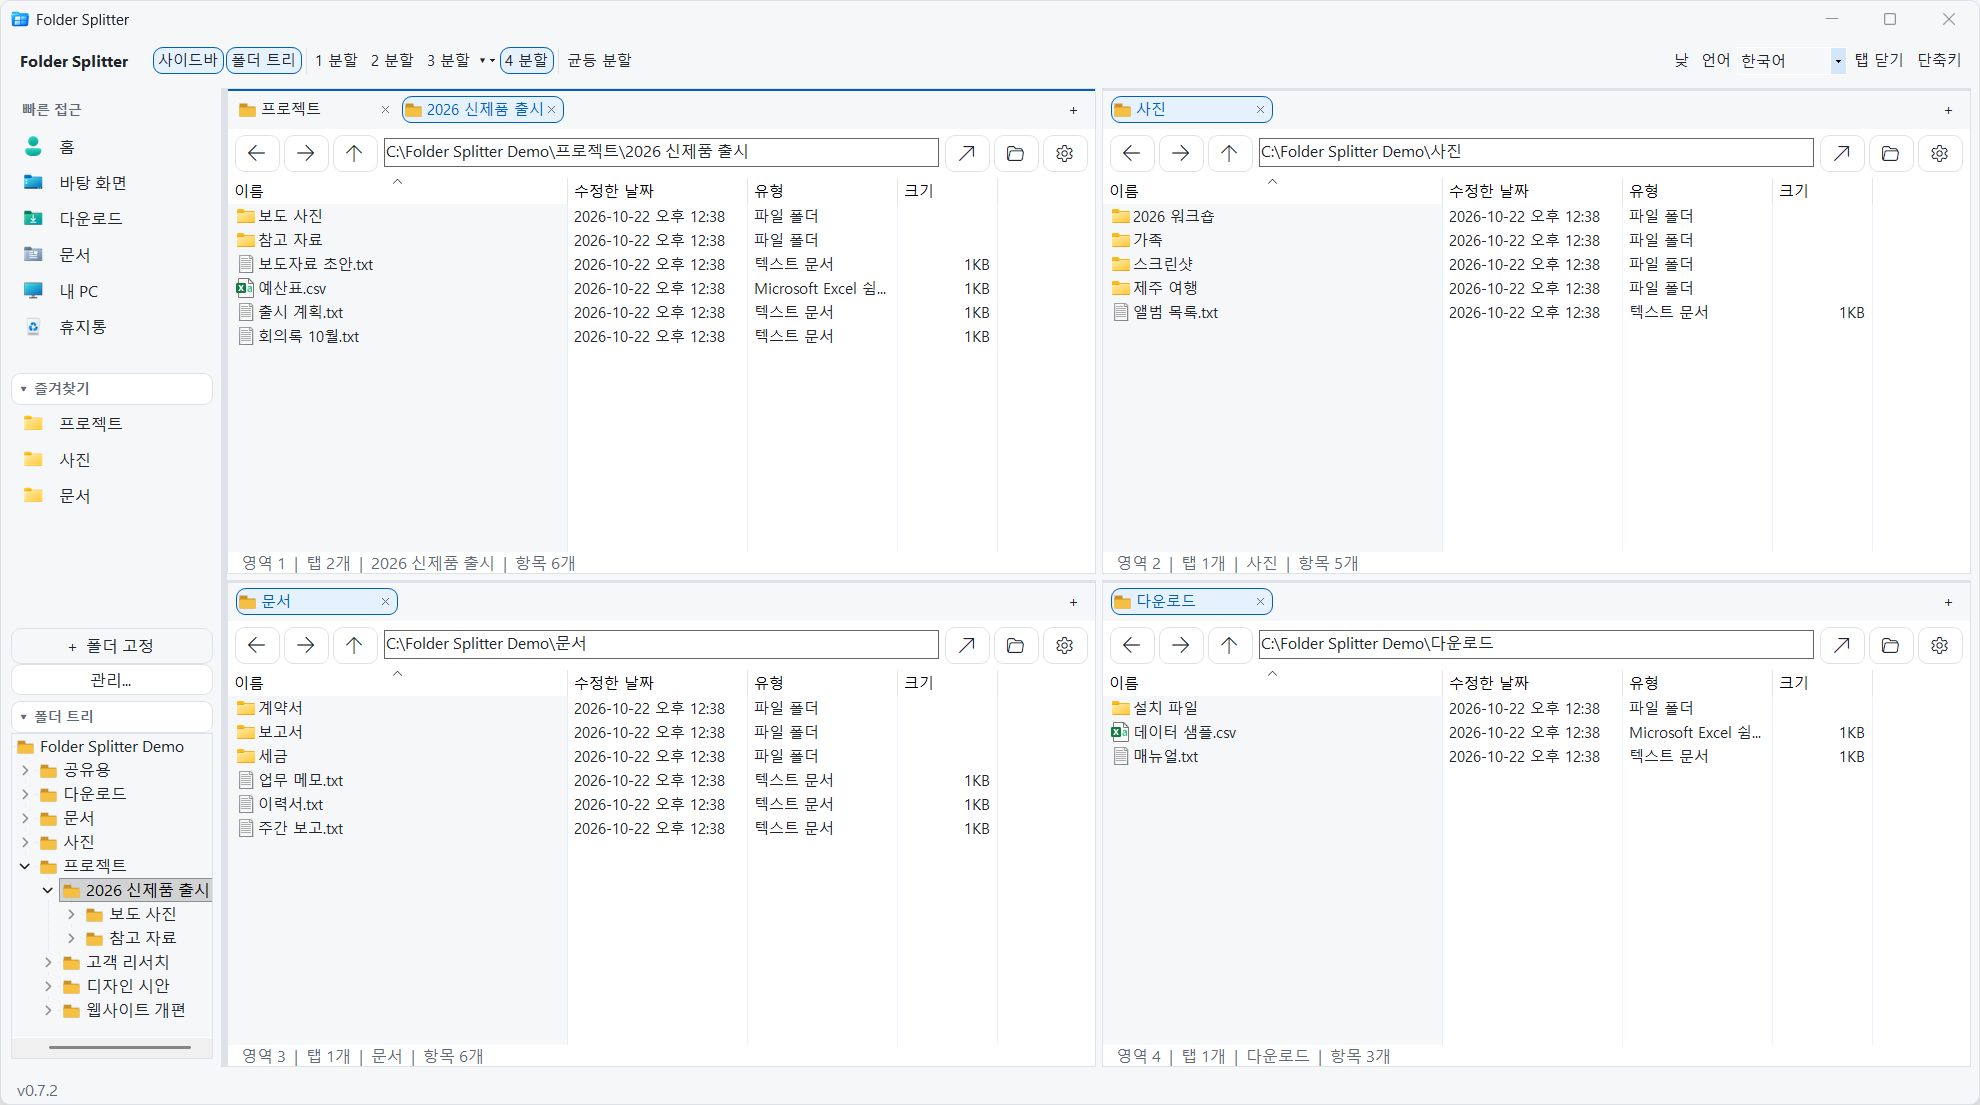
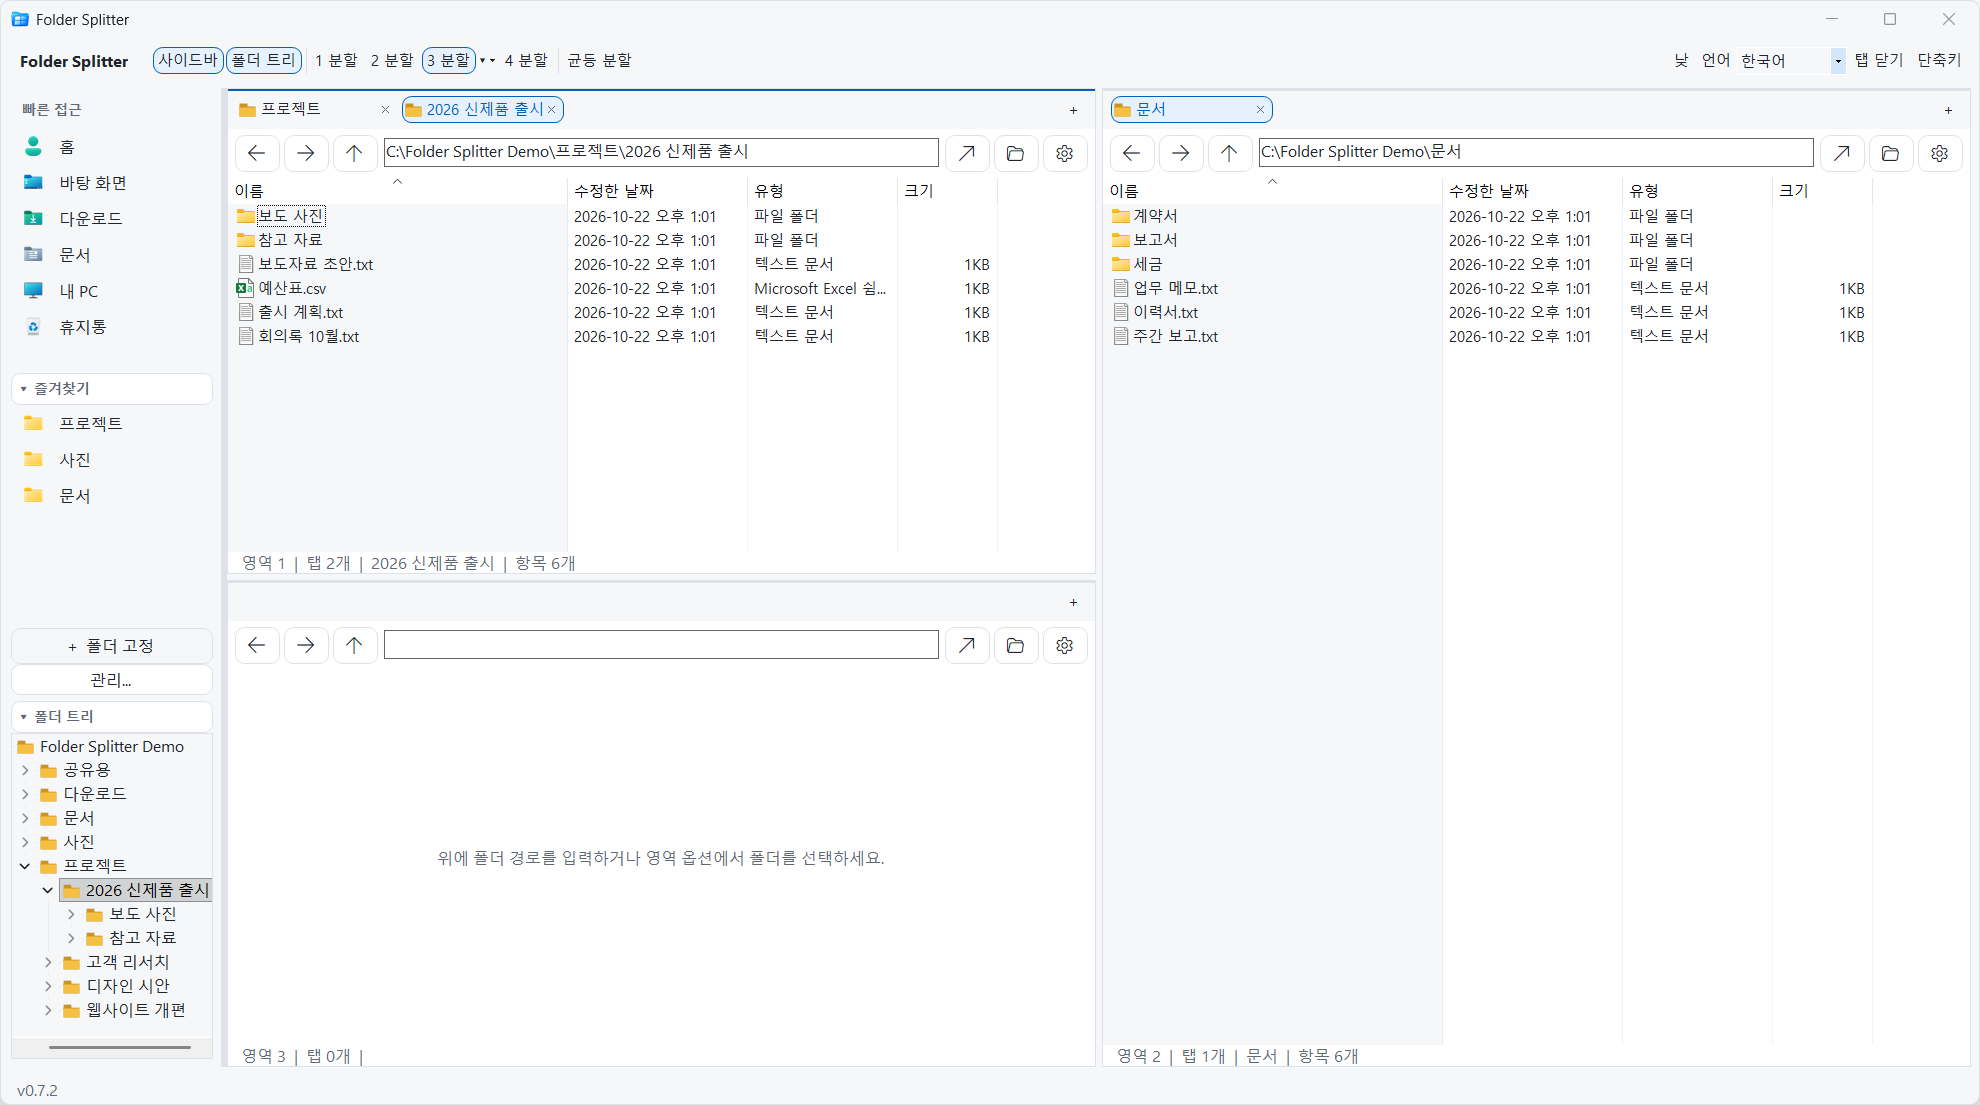
Show a three-pane layout with one empty pane in the README screenshot

diff --git a/tests/QuadExplorer.UiTests/Program.cs b/tests/QuadExplorer.UiTests/Program.cs
@@ -229,24 +229,26 @@ internal static class Program
             string session = Path.Combine(output, "demo-session.json");
             SessionStore.Save(session, new SessionState
             {
-                Layout = 4, Language = "ko", ExplorerFavoritesImported = true, WindowWidth = 1600, WindowHeight = 900,
+                Layout = 3, Language = "ko", ExplorerFavoritesImported = true, WindowWidth = 1600, WindowHeight = 900,
                 Favorites = [projects, photos, documents],
-                Panes = [new PaneState { Tabs = [projects, launch], SelectedTab = 1 }, new PaneState { Tabs = [photos] },
-                    new PaneState { Tabs = [documents] }, new PaneState { Tabs = [downloads] }]
+                // Three panes with one left empty, as a new split shows it.
+                Panes = [new PaneState { Tabs = [projects, launch], SelectedTab = 1 }, new PaneState { Tabs = [documents] },
+                    new PaneState(), new PaneState()]
             });
             using var search = new IndependentSearchBackend(new[] { demoRoot }, Path.Combine(output, "demo-index.fsix"));
             using var form = new MainForm(session, [], search, [demoRoot]);
             foreach (var window in CandidatePopups(form).Prepend<Form>(form))
                 SetWindowLongPtr(window.Handle, -20, GetWindowLongPtr(window.Handle, -20) | 0x08000000); // WS_EX_NOACTIVATE: keep the user's focus
             var panes = Enumerable.Range(0, 4).Select(form.GetPane).ToArray();
-            var navigation = panes.Select(p => p.ActiveView!.HasNavigated ? Task.CompletedTask : NavigationSignal(p.ActiveView)).ToArray();
+            var shown = panes.Where(p => p.ActiveView is not null).ToArray();
+            var navigation = shown.Select(p => p.ActiveView!.HasNavigated ? Task.CompletedTask : NavigationSignal(p.ActiveView)).ToArray();
             form.Shown += async (_, _) =>
             {
                 try
                 {
                     await Task.WhenAll(navigation).WaitAsync(TimeSpan.FromSeconds(20));
-                    foreach (var pane in panes) pane.ActiveView!.SetViewMode(4);
-                    foreach (var pane in panes) await ItemCountKnown(pane.ActiveView!);
+                    foreach (var pane in shown) pane.ActiveView!.SetViewMode(4);
+                    foreach (var pane in shown) await ItemCountKnown(pane.ActiveView!);
                     await form.FolderTree.FollowPathAsync(launch);
                     await CaptureDemo(form, output, "01-light-panes");
                     form.SetColorTheme("dark");
